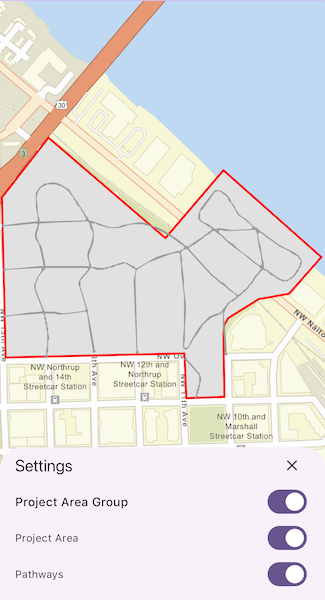
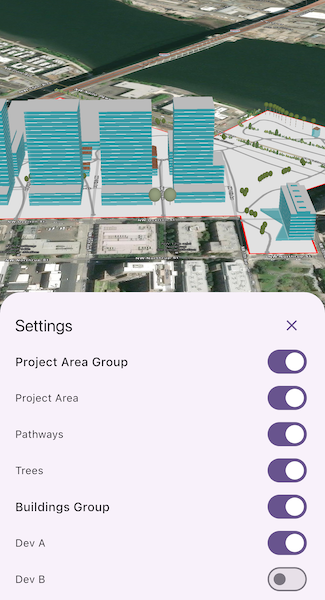
Use Scenes as originally designed

diff --git a/lib/samples/group_layers_together/group_layers_together.dart b/lib/samples/group_layers_together/group_layers_together.dart
@@ -26,9 +26,9 @@ class GroupLayersTogether extends StatefulWidget {
 
 class _GroupLayersTogetherState extends State<GroupLayersTogether>
     with SampleStateSupport {
-  // Create a controller for the map view.
-  final _mapViewController = ArcGISMapView.createController();
-  // A flag for when the map view is ready and controls can be used.
+  // Create a controller for the scene view.
+  final _sceneViewController = ArcGISSceneView.createController();
+  // A flag for when the scene view is ready and controls can be used.
   var _ready = false;
   // A flag for when the settings bottom sheet is visible.
   var _settingsVisible = false;
@@ -45,10 +45,10 @@ class _GroupLayersTogetherState extends State<GroupLayersTogether>
             Column(
               children: [
                 Expanded(
-                  // Add a map view to the widget tree and set a controller.
-                  child: ArcGISMapView(
-                    controllerProvider: () => _mapViewController,
-                    onMapViewReady: onMapViewReady,
+                  // Add a scene view to the widget tree and set a controller.
+                  child: ArcGISSceneView(
+                    controllerProvider: () => _sceneViewController,
+                    onSceneViewReady: onSceneViewReady,
                   ),
                 ),
                 Row(
@@ -87,7 +87,7 @@ class _GroupLayersTogetherState extends State<GroupLayersTogether>
                 child: Column(
                   crossAxisAlignment: CrossAxisAlignment.stretch,
                   children:
-                      _mapViewController.arcGISMap?.operationalLayers
+                      _sceneViewController.arcGISScene?.operationalLayers
                           .whereType<GroupLayer>()
                           .map(buildGroupLayerSettings)
                           .toList() ??
@@ -98,11 +98,6 @@ class _GroupLayersTogetherState extends State<GroupLayersTogether>
           ],
     );
   }
-
-  static const displayName = <String, String>{
-    'DevelopmentProjectArea': 'Project Area',
-    'DevA_Pathways': 'Pathways',
-  };
 
   // Create Widgets to control the Group Layer and its layers.
   Widget buildGroupLayerSettings(GroupLayer groupLayer) {
@@ -130,7 +125,7 @@ class _GroupLayersTogetherState extends State<GroupLayersTogether>
         ...groupLayer.layers.map((layer) {
           return Row(
             children: [
-              Text(displayName[layer.name] ?? layer.name),
+              Text(layer.name),
               const Spacer(),
               // Create a Switch to toggle the visibility of the individual layer.
               Switch(
@@ -150,7 +145,7 @@ class _GroupLayersTogetherState extends State<GroupLayersTogether>
     );
   }
 
-  Future<void> onMapViewReady() async {
+  Future<void> onSceneViewReady() async {
     // Create a Group Layer for the Project Area Group.
     final projectAreaGroupLayer = GroupLayer()..name = 'Project Area Group';
     // Create a Feature Layer for the Project Area.
@@ -159,33 +154,73 @@ class _GroupLayersTogetherState extends State<GroupLayersTogether>
         'https://services.arcgis.com/P3ePLMYs2RVChkJx/arcgis/rest/services/DevelopmentProjectArea/FeatureServer/0',
       ),
     );
-    final projectAreaLayer = FeatureLayer.withFeatureTable(projectAreaTable);
+    final projectAreaLayer = FeatureLayer.withFeatureTable(projectAreaTable)
+      ..name = 'Project Area';
     // Create a Feature Layer for the Pathways.
     final pathwaysTable = ServiceFeatureTable.withUri(
       Uri.parse(
         'https://services.arcgis.com/P3ePLMYs2RVChkJx/arcgis/rest/services/DevA_Pathways/FeatureServer/1',
       ),
     );
-    final pathwaysLayer = FeatureLayer.withFeatureTable(pathwaysTable);
+    final pathwaysLayer = FeatureLayer.withFeatureTable(pathwaysTable)
+      ..name = 'Pathways';
+    // Create a Scene Layer for the Trees.
+    final treesLayer = ArcGISSceneLayer.withUri(
+      Uri.parse(
+        'https://tiles.arcgis.com/tiles/P3ePLMYs2RVChkJx/arcgis/rest/services/DevA_Trees/SceneServer/layers/0',
+      ),
+    )..name = 'Trees';
     // Add the layers to the Group Layer.
-    projectAreaGroupLayer.layers.addAll([projectAreaLayer, pathwaysLayer]);
+    projectAreaGroupLayer.layers.addAll([
+      projectAreaLayer,
+      pathwaysLayer,
+      treesLayer,
+    ]);
 
-    // Create a map with the ArcGIS Streets basemap style.
-    final map = ArcGISMap.withBasemapStyle(BasemapStyle.arcGISStreets);
-    // Add the Group Layers to the map.
-    map.operationalLayers.addAll([projectAreaGroupLayer]);
+    // Create a Group Layer for the Buildings Group with "exclusive" visibility.
+    final buildingsGroupLayer =
+        GroupLayer()
+          ..name = 'Buildings Group'
+          ..visibilityMode = GroupVisibilityMode.exclusive;
+    // Create a Scene Layer for the Dev A buildings.
+    final buildingsALayer = ArcGISSceneLayer.withUri(
+      Uri.parse(
+        'https://tiles.arcgis.com/tiles/P3ePLMYs2RVChkJx/arcgis/rest/services/DevA_BuildingShells/SceneServer/layers/0',
+      ),
+    )..name = 'Dev A';
+    // Create a Scene Layer for the Dev B buildings.
+    final buildingsBLayer = ArcGISSceneLayer.withUri(
+      Uri.parse(
+        'https://tiles.arcgis.com/tiles/P3ePLMYs2RVChkJx/arcgis/rest/services/DevB_BuildingShells/SceneServer/layers/0',
+      ),
+    )..name = 'Dev B';
+    buildingsGroupLayer.layers.addAll([buildingsALayer, buildingsBLayer]);
 
-    // Load a layer so that the group layer has a full extent.
+    // Create a scene with the ArcGIS Imagery basemap style.
+    final scene = ArcGISScene.withBasemapStyle(BasemapStyle.arcGISImagery);
+    // Add the Group Layers to the scene.
+    scene.operationalLayers.addAll([
+      projectAreaGroupLayer,
+      buildingsGroupLayer,
+    ]);
+    // Set the scene to the scene view.
+    _sceneViewController.arcGISScene = scene;
+
+    // Load the project area layer to get its extent.
     await projectAreaLayer.load();
-    if (projectAreaGroupLayer.fullExtent != null) {
-      // Set the initial viewpoint to the full extent of the group layer.
-      map.initialViewpoint = Viewpoint.fromTargetExtent(
-        projectAreaGroupLayer.fullExtent!,
+    // Set the initial viewpoint centered on the extent of the project area layer.
+    if (projectAreaLayer.fullExtent != null) {
+      _sceneViewController.setViewpointCamera(
+        Camera.withLookAtPoint(
+          lookAtPoint: projectAreaLayer.fullExtent!.center,
+          distance: 800,
+          heading: 0,
+          pitch: 60,
+          roll: 0,
+        ),
       );
     }
 
-    // Set the map to the map view.
-    _mapViewController.arcGISMap = map;
     // Set the ready state variable to true to enable the UI.
     setState(() => _ready = true);
   }

diff --git a/lib/samples/group_layers_together/README.md b/lib/samples/group_layers_together/README.md
@@ -12,7 +12,7 @@ In a land development project, you might group layers according to the phase of 
 
 ## How to use the sample
 
-The layers in the map will be displayed in a table of contents. Toggle the checkbox next to a layer's name to change its visibility. Turning a group layer's visibility off will override the visibility of its child layers.
+The layers in the scene will be displayed in a table of contents. Toggle the checkbox next to a layer's name to change its visibility. Turning a group layer's visibility off will override the visibility of its child layers.
 
 ## How it works
 
